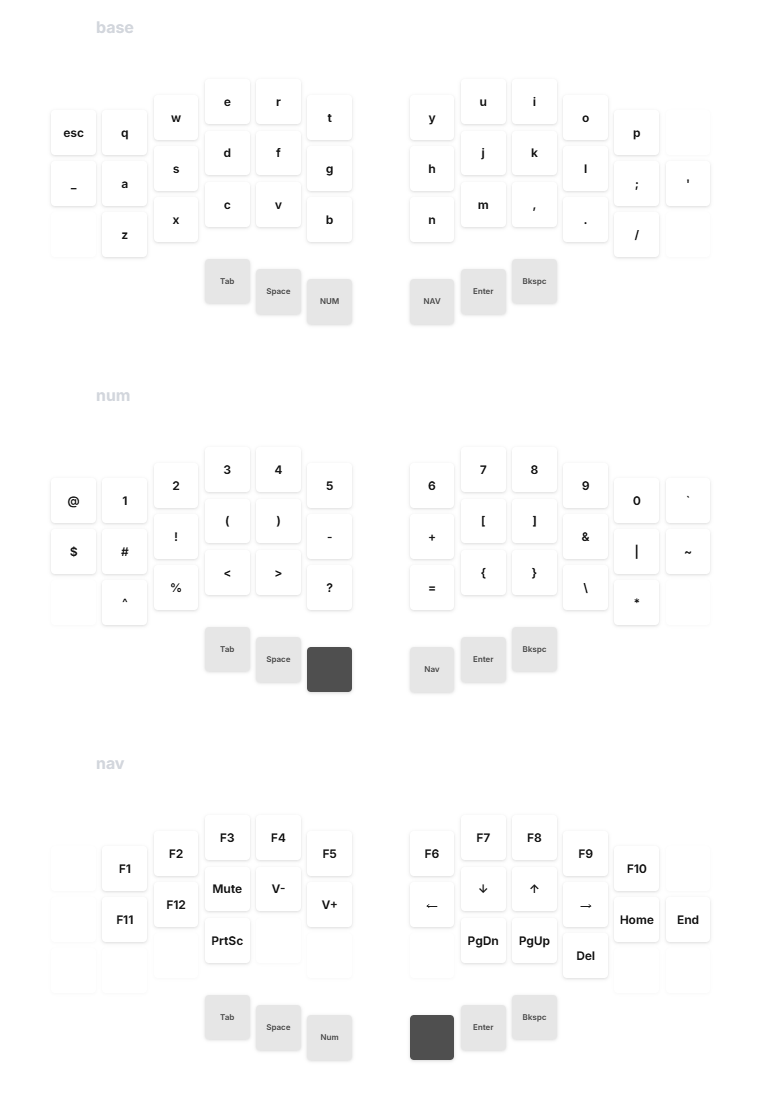
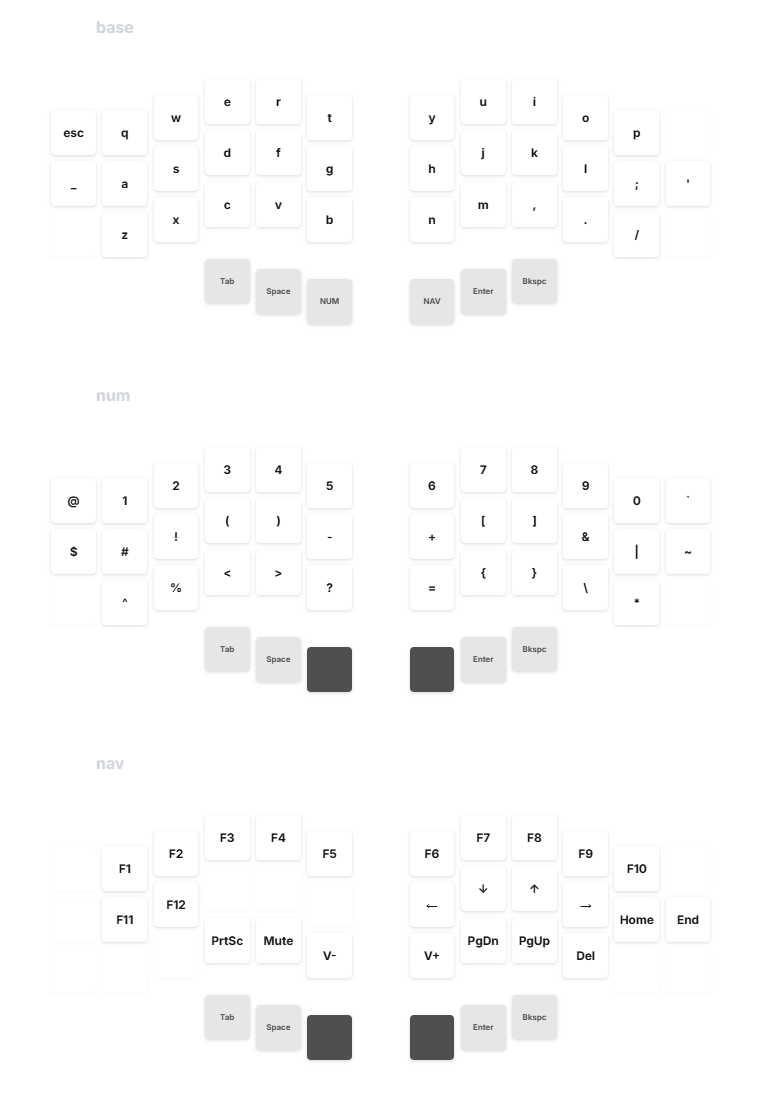
fixed image

diff --git a/firmware/keymaps/default/keymap.c b/firmware/keymaps/default/keymap.c
@@ -64,7 +64,7 @@ const uint16_t PROGMEM keymaps[][MATRIX_ROWS][MATRIX_COLS] = {
       *               ┌───┐                   ┌───┐
       *               │Tab├───┐           ┌───┤Bsp│
       *               └───┤Spc├───┐   ┌───┤Ent├───┘
-      *                   └───┤   │   │Nav├───┘
+      *                   └───┤   │   │   ├───┘
       *                       └───┘   └───┘
       */
     [NUM] = LAYOUT_split_3x6_3(
